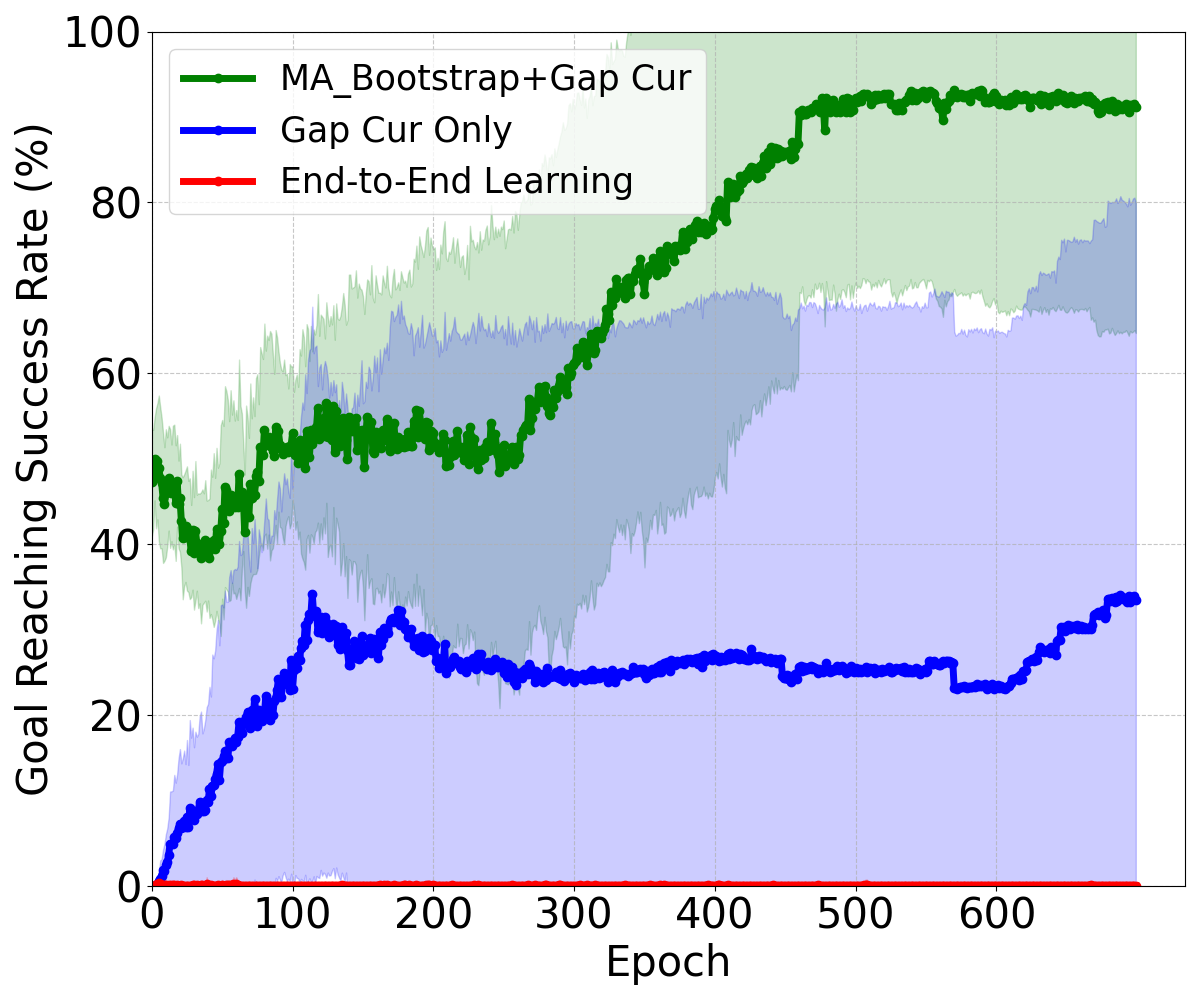
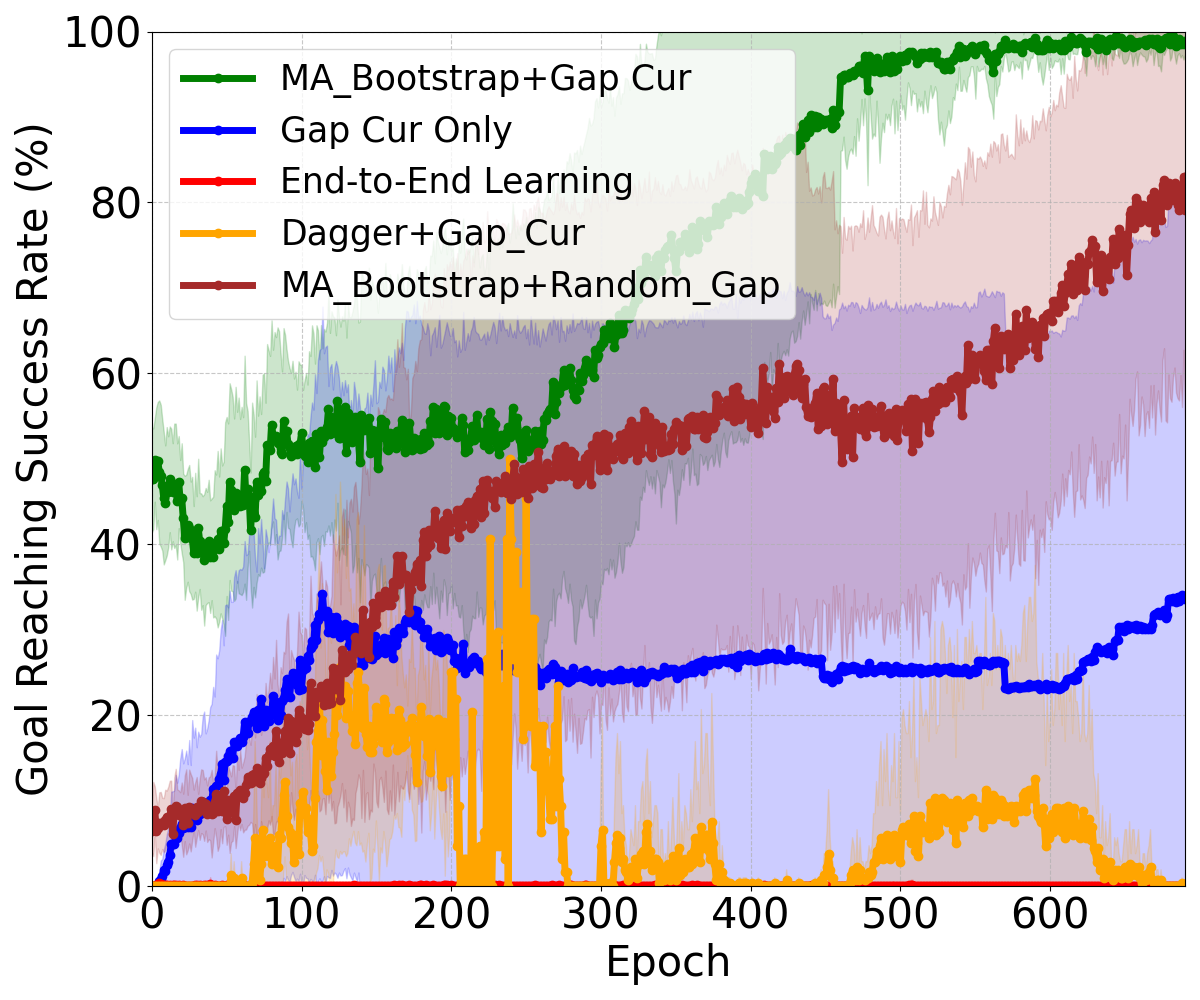
All CODE DONE AFTER REBUTTAL OF OBJ 1

diff --git a/assets/shade_BC.py b/assets/shade_BC.py
@@ -1,0 +1,109 @@
+import os
+import numpy as np
+import pandas as pd
+import matplotlib.pyplot as plt
+from scipy import stats
+from matplotlib.patches import Patch
+
+def load_csv_files(directory):
+    """
+    Load CSV files from the specified directory.
+    Expects CSV files with columns: 'wall_time', 'Step', 'Value'
+    """
+    csv_files = [f for f in os.listdir(directory) if f.endswith('.csv')]
+    
+    # Dictionary to store accuracies for each epoch
+    epoch_accuracies = {}
+    
+    for csv_file in csv_files:
+        file_path = os.path.join(directory, csv_file)
+        df = pd.read_csv(file_path)
+        
+        # Group by Step (epoch) and collect accuracies
+        for Step, group in df.groupby('Step'):
+            if Step not in epoch_accuracies:
+                epoch_accuracies[Step] = []
+            epoch_accuracies[Step].append(group['Value'].mean())
+    
+    return epoch_accuracies
+
+def analyze_epoch_performance(epoch_accuracies):
+    """
+    Analyze performance across epochs
+    """
+    # Sort epochs to ensure correct order
+    sorted_epochs = sorted(epoch_accuracies.keys())
+    
+    means = []
+    stds = []
+    
+    for epoch in sorted_epochs:
+        accuracies = epoch_accuracies[epoch]
+        mean = np.mean(accuracies) * 100  # Scale by 100 to convert to percentage
+        std = np.std(accuracies) * 100    # Scale by 100 to convert to percentage
+        
+        means.append(mean)
+        stds.append(std)
+    
+    return sorted_epochs, means, stds
+
+def plot_performance(epochs_list, means_list, stds_list, labels, colors):
+    """
+    Create performance visualization for multiple sets of results
+    """
+    plt.figure(figsize=(12, 10))
+
+    for epochs, means, stds, label, color in zip(epochs_list, means_list, stds_list, labels, colors):
+        # Plot mean accuracy
+        plt.plot(epochs, means, marker='o', linestyle='-', linewidth=5, label=label, color=color)
+
+        # Plot variance as shaded area
+        plt.fill_between(
+            epochs, 
+            np.array(means) - np.array(stds), 
+            np.array(means) + np.array(stds), 
+            alpha=0.2, 
+            color=color
+        )
+
+    # plt.title('Training Performance Comparison', fontsize=30)
+    plt.xlabel('Epoch', fontsize=30)
+    plt.ylabel('Goal Reaching Success Rate (%)', fontsize=30)
+    plt.ylim(0, 100)  # Set y-axis limit to 100 for percentages
+    plt.xlim(left=0, right=690)  # Set x-axis from 0 to 700
+    # Explicitly setting the axes limits
+    plt.xlim(left=0)  # Start x-axis at 0
+    plt.ylim(bottom=0)  # Start y-axis at 0
+    # plt.xticks(range(0, max(epochs_list[-1]) + 1, 100),fontsize=30)
+    plt.xticks(range(0, 700, 100),fontsize=30)
+    plt.yticks(fontsize=30)
+    plt.grid(True, linestyle='--', alpha=0.7)
+    plt.legend(loc='upper left', fontsize=25)
+
+    plt.tight_layout()
+    plt.savefig('comparison_performance_plot2.png')  # Save the plot as a PNG file
+    plt.show()
+
+def main():
+    # Directories containing CSV files for each method
+    directories = ['/home/kom018/titan_results_data_tensorboard/accuracy/boot_Gap/', '/home/kom018/titan_results_data_tensorboard/accuracy/Gap_only/', '/home/kom018/titan_results_data_tensorboard/accuracy/End_to_End/','/home/kom018/titan_results_data_tensorboard/Dagger/Gap_cur/','/home/kom018/titan_results_data_tensorboard/accuracy/Boot_Random_Gap/']
+    labels = ['MA_Bootstrap+Gap Cur', 'Gap Cur Only', 'End-to-End Learning','Dagger+Gap_Cur','MA_Bootstrap+Random_Gap']
+    colors = ['green', 'blue', 'red','orange','brown']  # darkorange for dark yellow
+    
+    epochs_list = []
+    means_list = []
+    stds_list = []
+
+    # Load and analyze performance from each directory
+    for directory in directories:
+        epoch_accuracies = load_csv_files(directory)
+        epochs, means, stds = analyze_epoch_performance(epoch_accuracies)
+        epochs_list.append(epochs)
+        means_list.append(means)
+        stds_list.append(stds)
+    
+    # Plot performance comparison
+    plot_performance(epochs_list, means_list, stds_list, labels, colors)
+
+if __name__ == '__main__':
+    main()

diff --git a/assets/shade_Daggers.py b/assets/shade_Daggers.py
@@ -1,0 +1,109 @@
+import os
+import numpy as np
+import pandas as pd
+import matplotlib.pyplot as plt
+from scipy import stats
+from matplotlib.patches import Patch
+
+def load_csv_files(directory):
+    """
+    Load CSV files from the specified directory.
+    Expects CSV files with columns: 'wall_time', 'Step', 'Value'
+    """
+    csv_files = [f for f in os.listdir(directory) if f.endswith('.csv')]
+    
+    # Dictionary to store accuracies for each epoch
+    epoch_accuracies = {}
+    
+    for csv_file in csv_files:
+        file_path = os.path.join(directory, csv_file)
+        df = pd.read_csv(file_path)
+        
+        # Group by Step (epoch) and collect accuracies
+        for Step, group in df.groupby('Step'):
+            if Step not in epoch_accuracies:
+                epoch_accuracies[Step] = []
+            epoch_accuracies[Step].append(group['Value'].mean())
+    
+    return epoch_accuracies
+
+def analyze_epoch_performance(epoch_accuracies):
+    """
+    Analyze performance across epochs
+    """
+    # Sort epochs to ensure correct order
+    sorted_epochs = sorted(epoch_accuracies.keys())
+    
+    means = []
+    stds = []
+    
+    for epoch in sorted_epochs:
+        accuracies = epoch_accuracies[epoch]
+        mean = np.mean(accuracies) * 100  # Scale by 100 to convert to percentage
+        std = np.std(accuracies) * 100    # Scale by 100 to convert to percentage
+        
+        means.append(mean)
+        stds.append(std)
+    
+    return sorted_epochs, means, stds
+
+def plot_performance(epochs_list, means_list, stds_list, labels, colors):
+    """
+    Create performance visualization for multiple sets of results
+    """
+    plt.figure(figsize=(12, 10))
+
+    for epochs, means, stds, label, color in zip(epochs_list, means_list, stds_list, labels, colors):
+        # Plot mean accuracy
+        plt.plot(epochs, means, marker='o', linestyle='-', linewidth=5, label=label, color=color)
+
+        # Plot variance as shaded area
+        plt.fill_between(
+            epochs, 
+            np.array(means) - np.array(stds), 
+            np.array(means) + np.array(stds), 
+            alpha=0.2, 
+            color=color
+        )
+
+    # plt.title('Training Performance Comparison', fontsize=30)
+    plt.xlabel('Epoch', fontsize=30)
+    plt.ylabel('Goal Reaching Success Rate (%)', fontsize=30)
+    plt.ylim(0, 100)  # Set y-axis limit to 100 for percentages
+    plt.xlim(left=0, right=690)  # Set x-axis from 0 to 700
+    # Explicitly setting the axes limits
+    plt.xlim(left=0)  # Start x-axis at 0
+    plt.ylim(bottom=0)  # Start y-axis at 0
+    # plt.xticks(range(0, max(epochs_list[-1]) + 1, 100),fontsize=30)
+    plt.xticks(range(0, 700, 100),fontsize=30)
+    plt.yticks(fontsize=30)
+    plt.grid(True, linestyle='--', alpha=0.7)
+    plt.legend(loc='upper left', fontsize=25)
+
+    plt.tight_layout()
+    plt.savefig('Daggers_Only.png')  # Save the plot as a PNG file
+    plt.show()
+
+def main():
+    # Directories containing CSV files for each method
+    directories = ['/home/kom018/titan_results_data_tensorboard/Dagger/2_0.85/', '/home/kom018/titan_results_data_tensorboard/Dagger/Random_Gap/', '/home/kom018/titan_results_data_tensorboard/Dagger/Gap_cur/']
+    labels = ['Dagger_0.85', 'Dagger+Random_GAP','Dagger+GapCur']
+    colors = ['orange', 'blue', 'green']  # darkorange for dark yellow
+    
+    epochs_list = []
+    means_list = []
+    stds_list = []
+
+    # Load and analyze performance from each directory
+    for directory in directories:
+        epoch_accuracies = load_csv_files(directory)
+        epochs, means, stds = analyze_epoch_performance(epoch_accuracies)
+        epochs_list.append(epochs)
+        means_list.append(means)
+        stds_list.append(stds)
+    
+    # Plot performance comparison
+    plot_performance(epochs_list, means_list, stds_list, labels, colors)
+
+if __name__ == '__main__':
+    main()

diff --git a/run_test_BC.py b/run_test_BC.py
@@ -16,6 +16,12 @@ import os
 import pandas as pd
 from assets.env_multi_robot_pb import Env
 from models import core
+import matplotlib.pyplot as plt
+
+
+success_robot1 = []
+success_robot2 = []
+epochs = []
 
 home = str(Path.home())
 
@@ -51,7 +57,7 @@ else:
 PATH = path_home + latest_folder
 
 Env, args = default_arguments.get_env(args)   
-args.render = True
+args.render = False
 # args.render = False
 # if args.figure:
 #     args.render = False
@@ -61,7 +67,9 @@ actor_critic=core.MLPActorCriticPerception(None, env.observation_space, env.im_s
 
 
 # epoch_number=0
-checkpoint_dir="/scratch3/kom018/results/multi_robot_pb/test/2025_04_04_01_52_15/"
+# checkpoint_dir="/scratch3/kom018/results/multi_robot_pb/test/2025_04_04_01_52_15/"
+# checkpoint_dir="/hpc-scratch/kom018/results/multi_robot_pb/200203/E1r32G1E1/2025_04_04_04_19_17/"
+checkpoint_dir="/hpc-scratch/kom018/results/multi_robot_pb/200203/E10r32G1E1/2025_04_04_05_08_36/"
 checkpoint_files = sorted([f for f in os.listdir(checkpoint_dir) if f.endswith('.pt')], key=lambda x: int(x.split('_')[1].split('.')[0]))
    
 for filename in checkpoint_files:
@@ -102,6 +110,32 @@ for filename in checkpoint_files:
             success = env.success_list
             # print("success",success)
             print("rob",env.robots[0].ep_goal_success,env.robots[1].ep_goal_success,epoch_number)
+            success_robot1.append(env.robots[0].ep_goal_success)
+            success_robot2.append(env.robots[1].ep_goal_success)
+            epochs.append(epoch_number)
             break
+
+
+plt.figure(figsize=(14, 6))
+
+# Plot for Robot 1
+plt.subplot(1, 2, 1)  # 1 row, 2 columns, first subplot
+plt.plot(epochs, success_robot1, marker='o', linestyle='-', color='blue')
+plt.title('Success Rate of Robot 1 per Epoch')
+plt.xlabel('Epoch')
+plt.ylabel('Success Rate')
+plt.grid(True)
+
+# Plot for Robot 2
+plt.subplot(1, 2, 2)  # 1 row, 2 columns, second subplot
+plt.plot(epochs, success_robot2, marker='o', linestyle='-', color='red')
+plt.title('Success Rate of Robot 2 per Epoch')
+plt.xlabel('Epoch')
+plt.ylabel('Success Rate')
+plt.grid(True)
+
+plt.tight_layout()
+plt.show()
+
         
             

diff --git a/models/ppo_MA.py b/models/ppo_MA.py
@@ -1441,20 +1441,20 @@ def ppo(env, ac_kwargs=dict(), seed=0,
             if proc_id() == 0:
                 
 
-                if env.args.cloning and not env.args.Dagger:
-                    print("Saving model_checkpoint",epoch)
-                    
-                    model_state = {
-                        'epoch': epoch,
-                        'model': ac,
-                        'state_dict': ac.state_dict(),
-                        'optimizer': pi_optimizer.state_dict()
-                    }
-                    torch.save(model_state, PATH + f'model_{epoch}.pt')
+                # if env.args.cloning and not env.args.Dagger:
+                print("Saving model_checkpoint",epoch)
+                
+                model_state = {
+                    'epoch': epoch,
+                    'model': ac,
+                    'state_dict': ac.state_dict(),
+                    'optimizer': pi_optimizer.state_dict()
+                }
+                torch.save(model_state, PATH + f'model_{epoch}.pt')
 
-                else:
-                    print("Saving model")
-                    torch.save(ac, PATH + "model.pt")
+                # else:
+                #     print("Saving model")
+                #     torch.save(ac, PATH + "model.pt")
             # Wait for all processes before doing an update
             comm.Barrier()
             # Currently runnning a test shuts the physics server for PyBullet, unsure why
